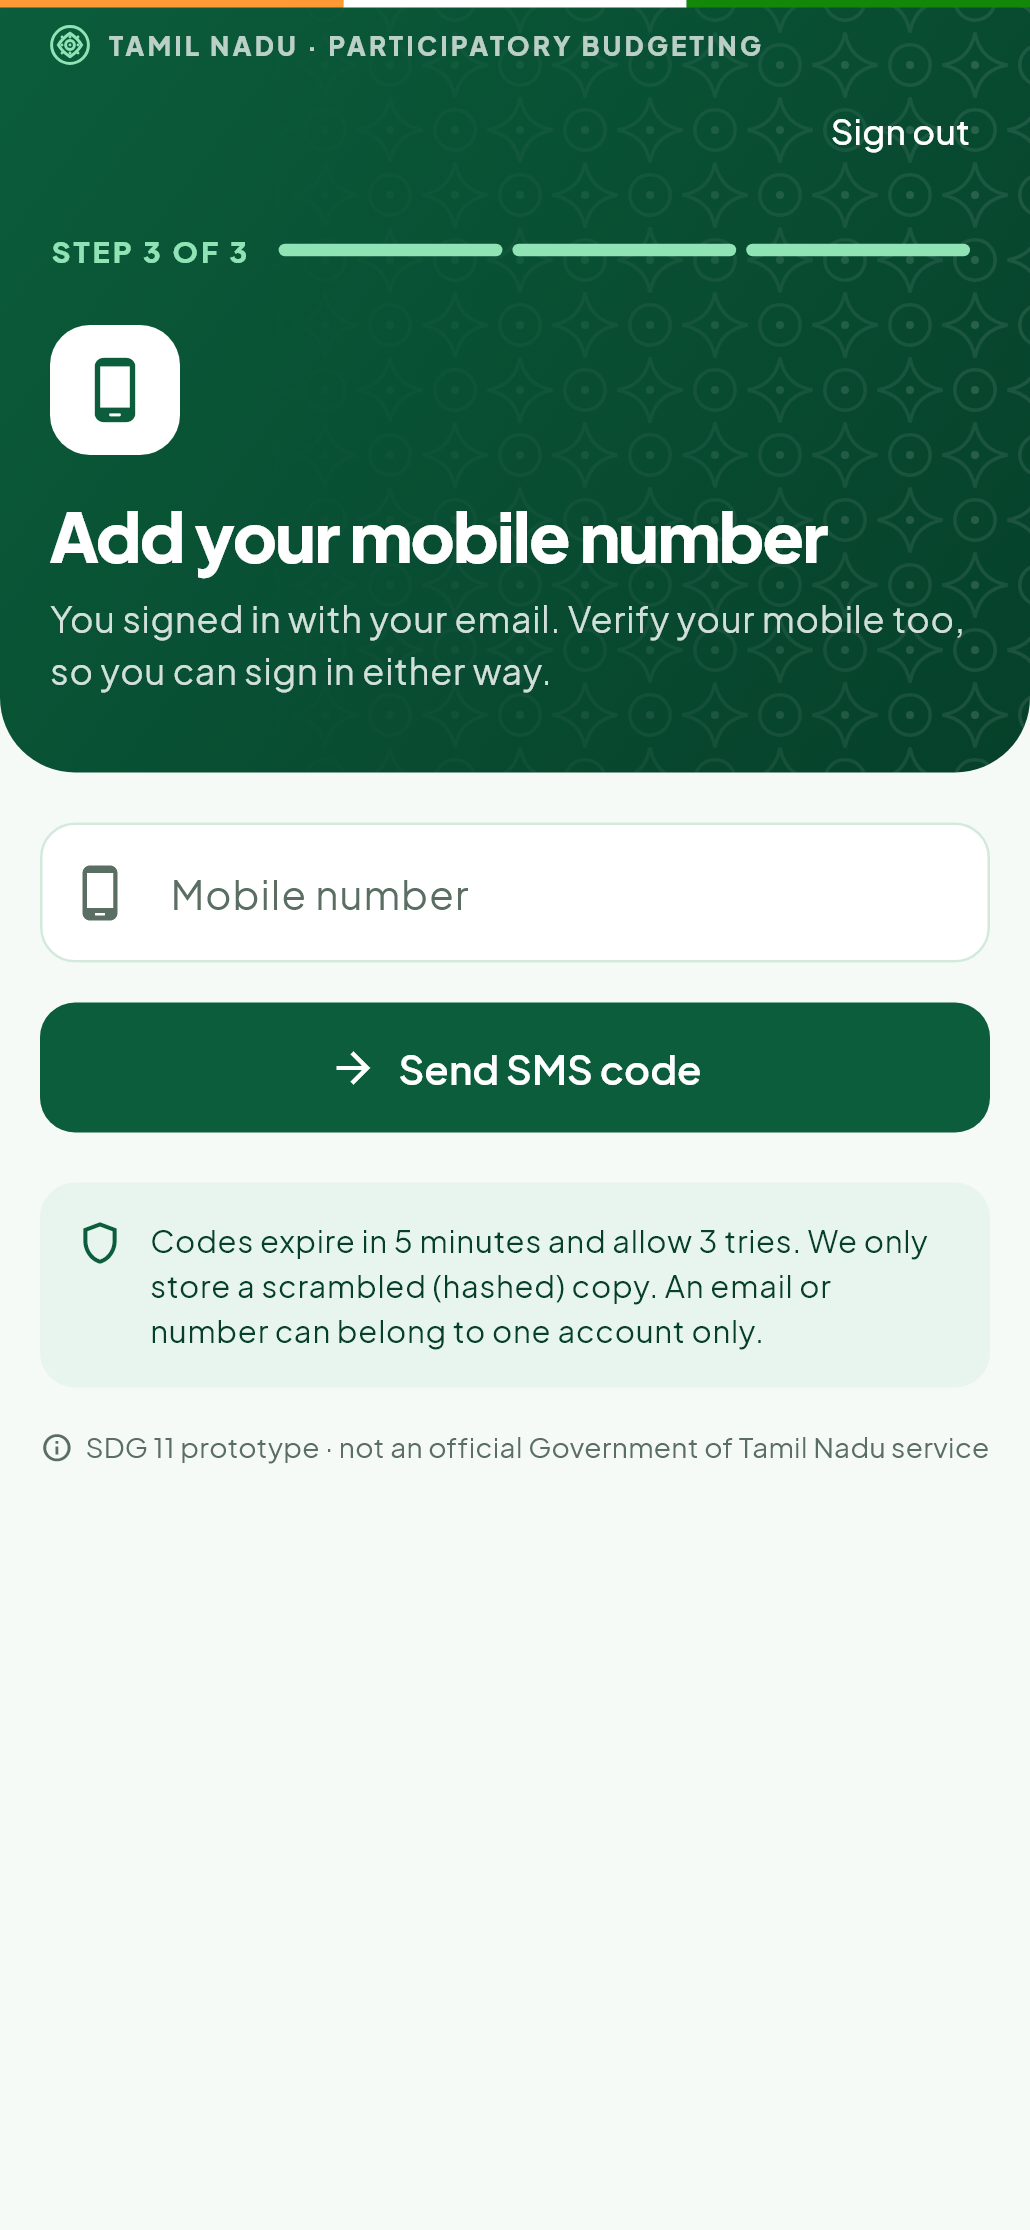
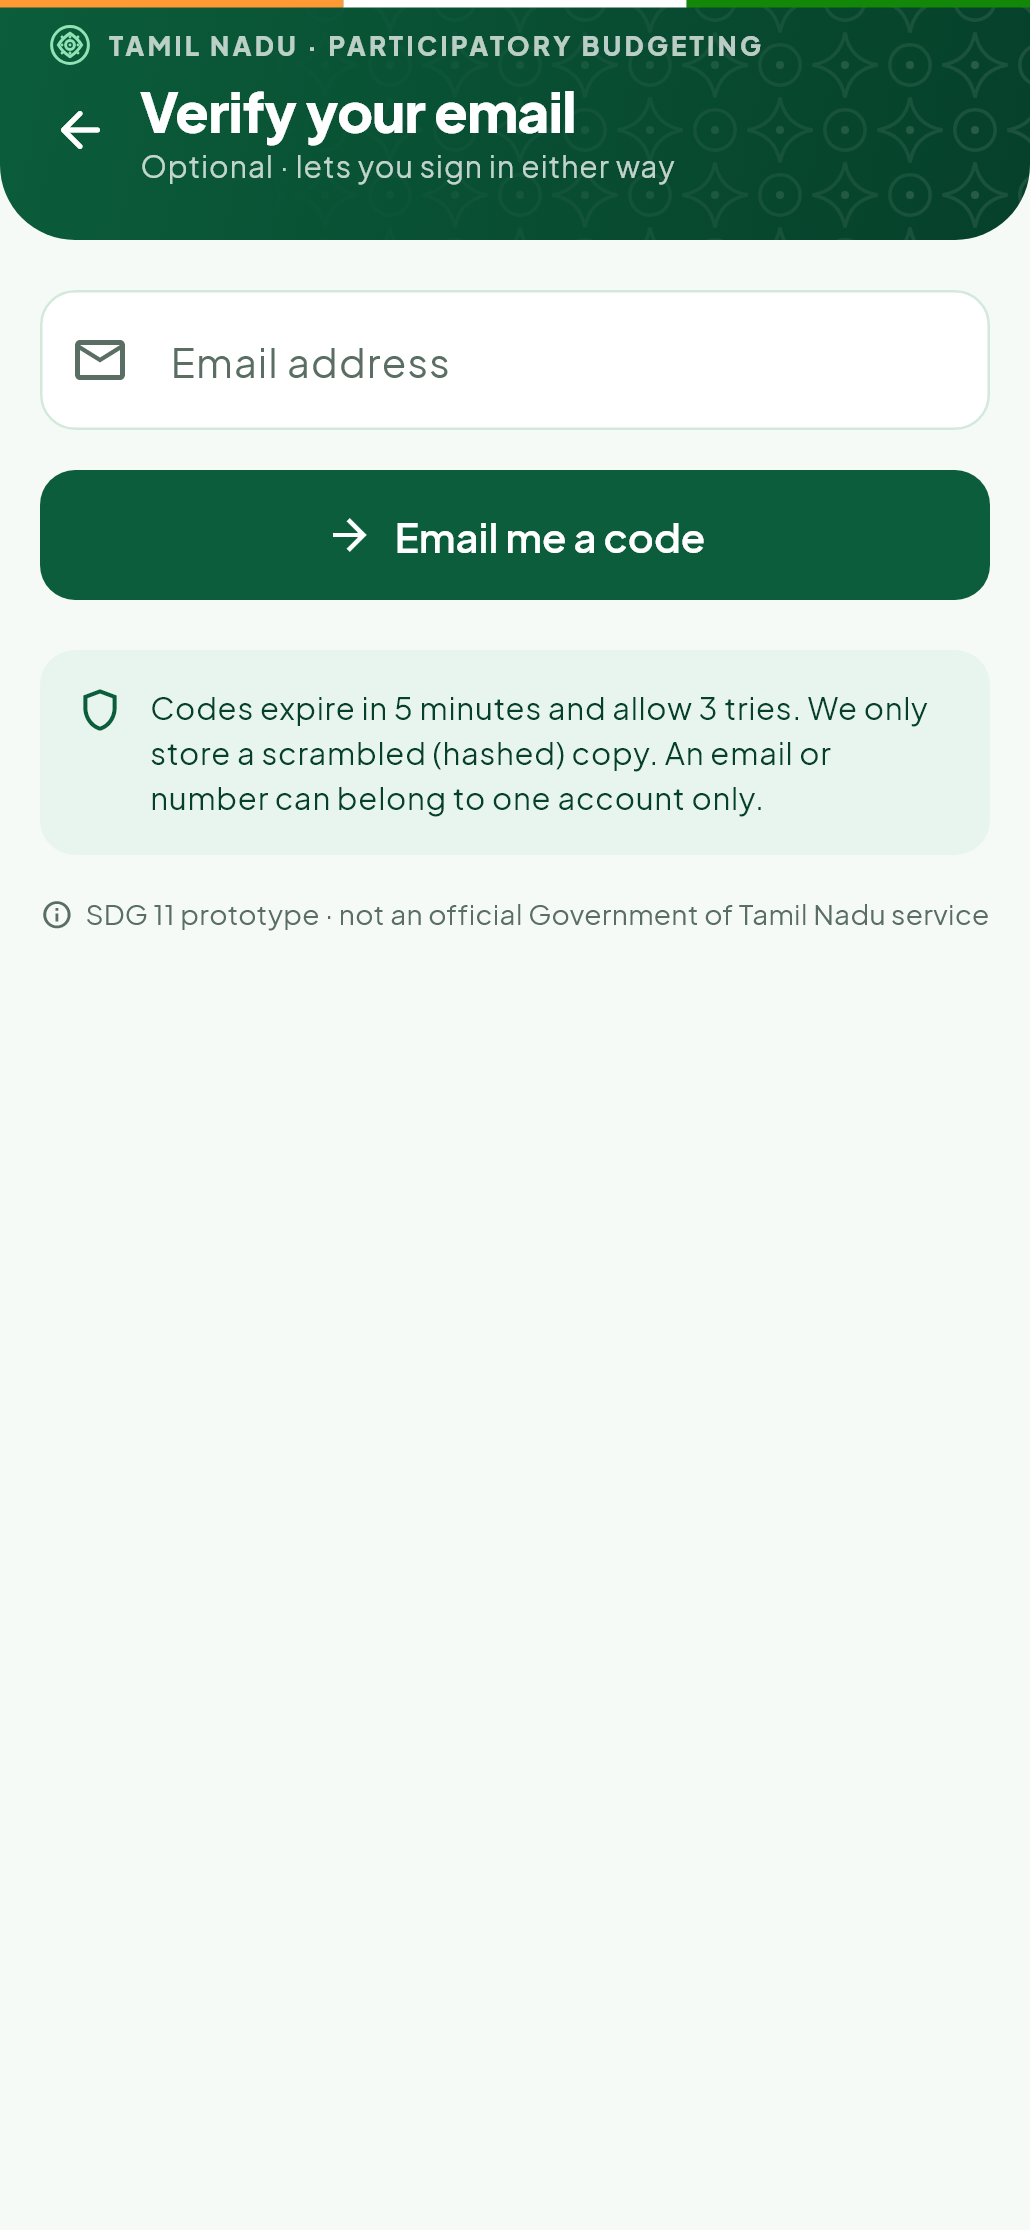
Sign in with one contact; verify the other later from Profile (optional)

diff --git a/app/lib/screens/profile_screen.dart b/app/lib/screens/profile_screen.dart
@@ -9,6 +9,7 @@ import '../theme.dart';
 import '../widgets/brand.dart';
 import '../widgets/civic.dart';
 import '../widgets/common.dart';
+import 'contact_verify_screen.dart';
 
 class ProfileScreen extends StatelessWidget {
   const ProfileScreen({super.key});
@@ -71,25 +72,36 @@ class ProfileScreen extends StatelessWidget {
               child: Column(crossAxisAlignment: CrossAxisAlignment.stretch, children: [
                 const SectionTitle('Verification'),
                 Card(
-                  // Shows whichever method(s) this account verified with.
+                  // Sign-in needs only one; the other can be verified here any time.
                   child: Column(children: [
-                    if (p.hasRealEmail)
-                      _InfoRow(
-                        icon: Icons.email_outlined,
-                        label: 'Email',
-                        value: p.email!,
-                        trailing: VerifiedBadge(verified: auth.user?.emailConfirmedAt != null),
-                      ),
-                    if (p.hasRealEmail && p.phoneVerified) const Divider(height: 1, indent: 64),
-                    if (p.phoneVerified)
-                      _InfoRow(
-                        icon: Icons.phone_android,
-                        label: 'Mobile',
-                        value: formatPhone(p.phone),
-                        trailing: const VerifiedBadge(verified: true),
-                      ),
+                    _InfoRow(
+                      icon: Icons.email_outlined,
+                      label: 'Email',
+                      value: auth.hasVerifiedEmail ? auth.user!.email! : 'Not verified yet',
+                      trailing: auth.hasVerifiedEmail
+                          ? const VerifiedBadge(verified: true)
+                          : _VerifyButton(email: true),
+                    ),
+                    const Divider(height: 1, indent: 64),
+                    _InfoRow(
+                      icon: Icons.phone_android,
+                      label: 'Mobile',
+                      value: auth.hasVerifiedPhone ? formatPhone(p.phone) : 'Not verified yet',
+                      trailing: auth.hasVerifiedPhone
+                          ? const VerifiedBadge(verified: true)
+                          : _VerifyButton(email: false),
+                    ),
                   ]),
                 ),
+                if (!auth.hasVerifiedEmail || !auth.hasVerifiedPhone) ...[
+                  const SizedBox(height: 8),
+                  Text(
+                    !auth.hasVerifiedEmail
+                        ? 'Verify your email to sign in with it and to get payment receipts by email.'
+                        : 'Verify your mobile to also sign in with an SMS code.',
+                    style: const TextStyle(fontSize: 12.5, color: AppColors.inkMuted),
+                  ),
+                ],
                 const SizedBox(height: 20),
                 const SectionTitle('Residency'),
                 Card(
@@ -218,5 +230,21 @@ class _InfoRow extends StatelessWidget {
           ),
           ?trailing,
         ]),
+      );
+}
+
+/// "Verify" for the contact this account hasn't verified yet (optional).
+class _VerifyButton extends StatelessWidget {
+  const _VerifyButton({required this.email});
+
+  final bool email;
+
+  @override
+  Widget build(BuildContext context) => FilledButton.tonal(
+        onPressed: () => Navigator.of(context).push(
+          MaterialPageRoute<void>(builder: (_) => ContactVerifyScreen(channel: email ? 'email' : 'phone')),
+        ),
+        style: FilledButton.styleFrom(visualDensity: VisualDensity.compact),
+        child: const Text('Verify'),
       );
 }

diff --git a/app/lib/screens/contact_verify_screen.dart b/app/lib/screens/contact_verify_screen.dart
@@ -16,7 +16,11 @@ import '../widgets/otp_input.dart';
 /// mobile. They signed in with one; here they add and verify the other (their
 /// choice of sign-in method stays open, and receipts go to the verified email).
 class ContactVerifyScreen extends StatefulWidget {
-  const ContactVerifyScreen({super.key});
+  const ContactVerifyScreen({super.key, this.channel});
+
+  /// 'email' or 'phone' when opened from Profile (optional verification);
+  /// null = onboarding (verify whichever is missing).
+  final String? channel;
 
   @override
   State<ContactVerifyScreen> createState() => _ContactVerifyScreenState();
@@ -33,8 +37,9 @@ class _ContactVerifyScreenState extends State<ContactVerifyScreen> {
 
   AuthProvider get _auth => context.read<AuthProvider>();
 
-  /// Which contact is missing (email first if both somehow are).
-  bool get _needEmail => !context.watch<AuthProvider>().hasVerifiedEmail;
+  /// Which contact this screen verifies.
+  bool get _needEmail => widget.channel != null ? widget.channel == 'email' : !_auth.hasVerifiedEmail;
+  bool get _fromProfile => widget.channel != null;
 
   @override
   void dispose() {
@@ -98,7 +103,14 @@ class _ContactVerifyScreenState extends State<ContactVerifyScreen> {
       await ApiService.post('/api/contact/$_channel/verify', {_channel: _target, 'otp': _code.text});
       if (!mounted) return;
       HapticFeedback.mediumImpact();
-      await _auth.contactVerified(); // router moves on once both are verified
+      await _auth.contactVerified();
+      if (_fromProfile && mounted) {
+        final messenger = ScaffoldMessenger.of(context);
+        Navigator.of(context).pop();
+        messenger.showSnackBar(SnackBar(
+          content: Text(_needEmail ? 'Email verified. You can now sign in with it too.' : 'Mobile verified. You can now sign in with it too.'),
+        ));
+      }
     } on ApiException catch (e) {
       if (!mounted) return;
       if (e.statusCode == 0 && await showFailure(context, e)) return;
@@ -114,12 +126,20 @@ class _ContactVerifyScreenState extends State<ContactVerifyScreen> {
   @override
   Widget build(BuildContext context) {
     final auth = context.watch<AuthProvider>();
-    final needEmail = _needEmail;
+    final needEmail = widget.channel != null ? widget.channel == 'email' : !auth.hasVerifiedEmail;
     final signedInWith = needEmail ? 'mobile number' : 'email';
 
     return Scaffold(
       body: SingleChildScrollView(
         child: Column(children: [
+          if (_fromProfile)
+            BrandHeader(
+              showBack: true,
+              title: needEmail ? 'Verify your email' : 'Verify your mobile',
+              subtitle: 'Optional · lets you sign in either way',
+              bottomPadding: 18,
+            )
+          else
           OnboardingHeader(
             step: 3,
             total: 3,

diff --git a/app/lib/providers/auth_provider.dart b/app/lib/providers/auth_provider.dart
@@ -10,7 +10,8 @@ import '../services/api_service.dart';
 import '../utils/errors.dart';
 
 /// Where the user is in onboarding. The router redirects based on this.
-/// needsContact = profile done, but the second contact (email or mobile) isn't verified yet.
+/// (needsContact is kept for compatibility; sign-in needs only ONE verified contact now,
+/// the other is optional and verified later from Profile.)
 enum AuthStage { loading, error, signedOut, needsProfile, needsContact, ready }
 
 /// How the user chose to verify themselves on the login screen.
@@ -60,12 +61,11 @@ class AuthProvider extends ChangeNotifier {
     if (session == null) return AuthStage.signedOut;
     if (loadError != null || profile == null) return AuthStage.error;
     if (!profile!.isComplete) return AuthStage.needsProfile;
-    if (!hasVerifiedEmail || !hasVerifiedPhone) return AuthStage.needsContact;
     return AuthStage.ready;
   }
 
-  /// Every resident has BOTH a verified email and a verified mobile; they sign in
-  /// with whichever they choose. (Phone-only accounts start with a placeholder email.)
+  /// Residents sign in with ONE verified contact; the other is optional and can be
+  /// verified later from Profile. (Phone-only accounts start with a placeholder email.)
   bool get hasVerifiedEmail {
     final e = user?.email;
     return e != null && !e.endsWith('@${Profile.phoneEmailDomain}') && user?.emailConfirmedAt != null;

diff --git a/app/lib/screens/funds_screen.dart b/app/lib/screens/funds_screen.dart
@@ -2,8 +2,10 @@ import 'dart:async';
 
 import 'package:flutter/material.dart';
 import 'package:flutter/services.dart';
+import 'package:provider/provider.dart';
 import 'package:url_launcher/url_launcher.dart';
 
+import '../providers/auth_provider.dart';
 import '../services/funds_service.dart';
 import '../theme.dart';
 import '../utils/errors.dart';
@@ -500,7 +502,9 @@ class _ContributeSheetState extends State<ContributeSheet> with WidgetsBindingOb
             child: Text(
               _result!.receiptEmail != null
                   ? 'Receipt emailed to ${_result!.receiptEmail}'
-                  : 'A receipt is on its way to your verified email.',
+                  : context.read<AuthProvider>().hasVerifiedEmail
+                      ? 'A receipt is on its way to your verified email.'
+                      : 'Verify your email in Profile to get receipts by email.',
               style: const TextStyle(color: AppColors.forestDark, fontSize: 13),
             ),
           ),

diff --git a/app/tool/screenshots_test.dart b/app/tool/screenshots_test.dart
@@ -473,7 +473,7 @@ void main() {
   testWidgets('03b phone otp', (t) => shot(t, '03b_phone_otp',
       app(const PhoneOtpScreen(), stage: AuthStage.signedOut, phone: '9876543210')));
   testWidgets('04 profile setup', (t) => shot(t, '04_profile_setup', app(const ProfileSetupScreen(), stage: AuthStage.needsProfile)));
-  testWidgets('04b verify other contact', (t) => shot(t, '04b_verify_contact', app(const ContactVerifyScreen(), stage: AuthStage.needsContact)));
+  testWidgets('04b verify email from profile', (t) => shot(t, '04b_verify_contact', app(const ContactVerifyScreen(channel: 'email'))));
   testWidgets('05 home', (t) => shot(t, '05_home', app(const HomeScreen(), tab: 0, wp: fakeWard(myBallot: null))));
   testWidgets('05b home building ballot', (t) => shot(t, '05b_home_ballot',
       app(const HomeScreen(), tab: 0, wp: fakeWard(myBallot: null, picks: {'p1', 'p3'})), before: (t) async {

diff --git a/app/lib/screens/email_otp_screen.dart b/app/lib/screens/email_otp_screen.dart
@@ -73,7 +73,7 @@ class _EmailOtpScreenState extends State<EmailOtpScreen> {
           children: [
             OnboardingHeader(
               step: 1,
-              total: 3,
+              total: 2,
               icon: Icons.mark_email_read_outlined,
               title: 'Check your email',
               subtitle: TextSpan(

diff --git a/app/lib/screens/phone_otp_screen.dart b/app/lib/screens/phone_otp_screen.dart
@@ -122,7 +122,7 @@ class _PhoneOtpScreenState extends State<PhoneOtpScreen> {
           children: [
             OnboardingHeader(
               step: 1,
-              total: 3,
+              total: 2,
               icon: Icons.sms_outlined,
               title: 'Check your SMS',
               subtitle: TextSpan(

diff --git a/app/lib/screens/profile_setup_screen.dart b/app/lib/screens/profile_setup_screen.dart
@@ -101,7 +101,7 @@ class _ProfileSetupScreenState extends State<ProfileSetupScreen> {
         children: [
           OnboardingHeader(
             step: 2,
-            total: 3,
+            total: 2,
             showBack: false,
             icon: Icons.badge_outlined,
             title: 'Almost there',

diff --git a/README.md b/README.md
@@ -28,7 +28,7 @@ Ward residents suggest projects, then back **every project they want funded** as
 ## Features
 | Area | What it does |
 |---|---|
-| **Login** | Every resident has **both a verified email and a verified mobile**. They sign in with **whichever they choose** by one-time code (email via Supabase Auth, SMS via Fast2SMS). After profile setup, step 3 adds and verifies the other contact, and from then on either one signs in to the same account. Codes are stored only as SHA-256 hashes, expire after 5 minutes, allow 3 attempts, can be resent after 60 s and are limited to 5 per hour. An email or number belongs to one account only. |
+| **Login** | Residents sign in with **one** method of their choice: a 6-digit email code (Supabase Auth) or an SMS code (Fast2SMS). The other contact is **optional**: **Profile → Verification** shows what isn't verified yet with a **Verify** button. Once both are verified, either one signs in to the same account. Codes are stored only as SHA-256 hashes, expire after 5 minutes, allow 3 attempts, can be resent after 60 s and are limited to 5 per hour. An email or number belongs to one account only. |
 | **Profile** | Full name, ward (1 of 3), **Resident ID** (simulated verification, one account per ID). |
 | **Proposals** | Ward budget pool vs. total requested, category filters, and a detailed budget breakdown in ₹. |
 | **Voting window** | Each ward has an opening and a closing time. Home shows a live countdown. Before the window opens the phase is *Upcoming*, and after it closes the results are **final**. The server enforces the window, not only the app. |
@@ -39,7 +39,7 @@ Ward residents suggest projects, then back **every project they want funded** as
 | **Ward map** | **Map** tab (OpenStreetMap, no API key): every project on the ballot and every idea as a pin. Green means on the ballot, amber means an idea in review, grey means not approved, and a tick means it is on your ballot. Tap a pin to add it to your ballot or open it. Admins get a separate **3D ward map** (Admin panel → 3D icon): a tilted map where every project is a 3D pillar (height = cost or votes, colour = status) with floating labels. Approve or edit ideas right from a pillar. Proposal pages show a mini-map, and the idea and proposal forms have a **Pick on map** location picker. |
 | **Two admin levels** | **Super admin** (`profiles.role = admin`): total control of every ward in the **Admin panel**: wards, budgets, voting dates, proposals, ideas, people/roles, ballots, and a **Funds** tab with every ward's fundraisers and contributions. They assign exactly **one Ward Admin per ward** (Wards → ⋮ Set Ward Admin). **Ward Admin**: limited to their own ward in the **Ward Admin console** (Home → Ward Admin console): Overview, Ideas review, Proposals, Fund (fundraisers + contributions) and encrypted resident Messages. They can't change budgets, voting dates or roles. |
 | **Ward Fund (Razorpay)** | The Ward Admin starts fundraisers (goal, end date). Residents contribute through **Razorpay Payment Links in test mode**, which work in the Android app and on the web. A payment counts only after the server confirms it with Razorpay (signed callback + status check). Residents can give anonymously and get a receipt. Test UPI `success@razorpay` or card `4111 1111 1111 1111`. |
-| **Emailed receipts** | When Razorpay confirms a payment, the server emails the contributor a branded receipt (amount, fundraiser, ward, Razorpay payment ID, receipt number), sent once and only to their verified email. Needs SMTP settings (see Server setup). |
+| **Emailed receipts** | When Razorpay confirms a payment, the server emails the contributor a branded receipt (amount, fundraiser, ward, Razorpay payment ID, receipt number), sent once and only to their verified email (residents without one are prompted to verify it in Profile). Needs SMTP settings (see Server setup). |
 | **Secure chat (E2E)** | Residents message their Ward Admin with **end-to-end encryption**: X25519 key pair per phone (private key in Android Keystore via secure storage), HKDF-SHA256 conversation keys, AES-256-GCM per message. The server stores only ciphertext. Chat has live updates, read ticks and a 12-digit **safety code** to verify keys. |
 | **AI chat summary + PDF** | The Ward Admin taps **Summarize** (one chat or the whole inbox). Their phone decrypts the chats and sends the text to Gemini once (not stored), then the admin edits the summary (issues, requests, urgent, mood, follow-ups) and **downloads a PDF**, optionally with transcripts. Residents are told this can happen. |
 | **Error pages** | Every failure has its own page: offline, server waking up, session expired, access denied, not eligible, voting not open or closed, already voted, ballot over budget, **404**, too many tries, Ward Assistant resting, server error, and app crash (instead of Flutter's red screen). Each page has an illustration, a clear next step, automatic retry where it helps, and copyable technical details. The server sends an error `code` (e.g. `VOTING_CLOSED`) so the app picks the right page. Admins can preview them all under Admin panel → ⚠ **Error pages**. |
